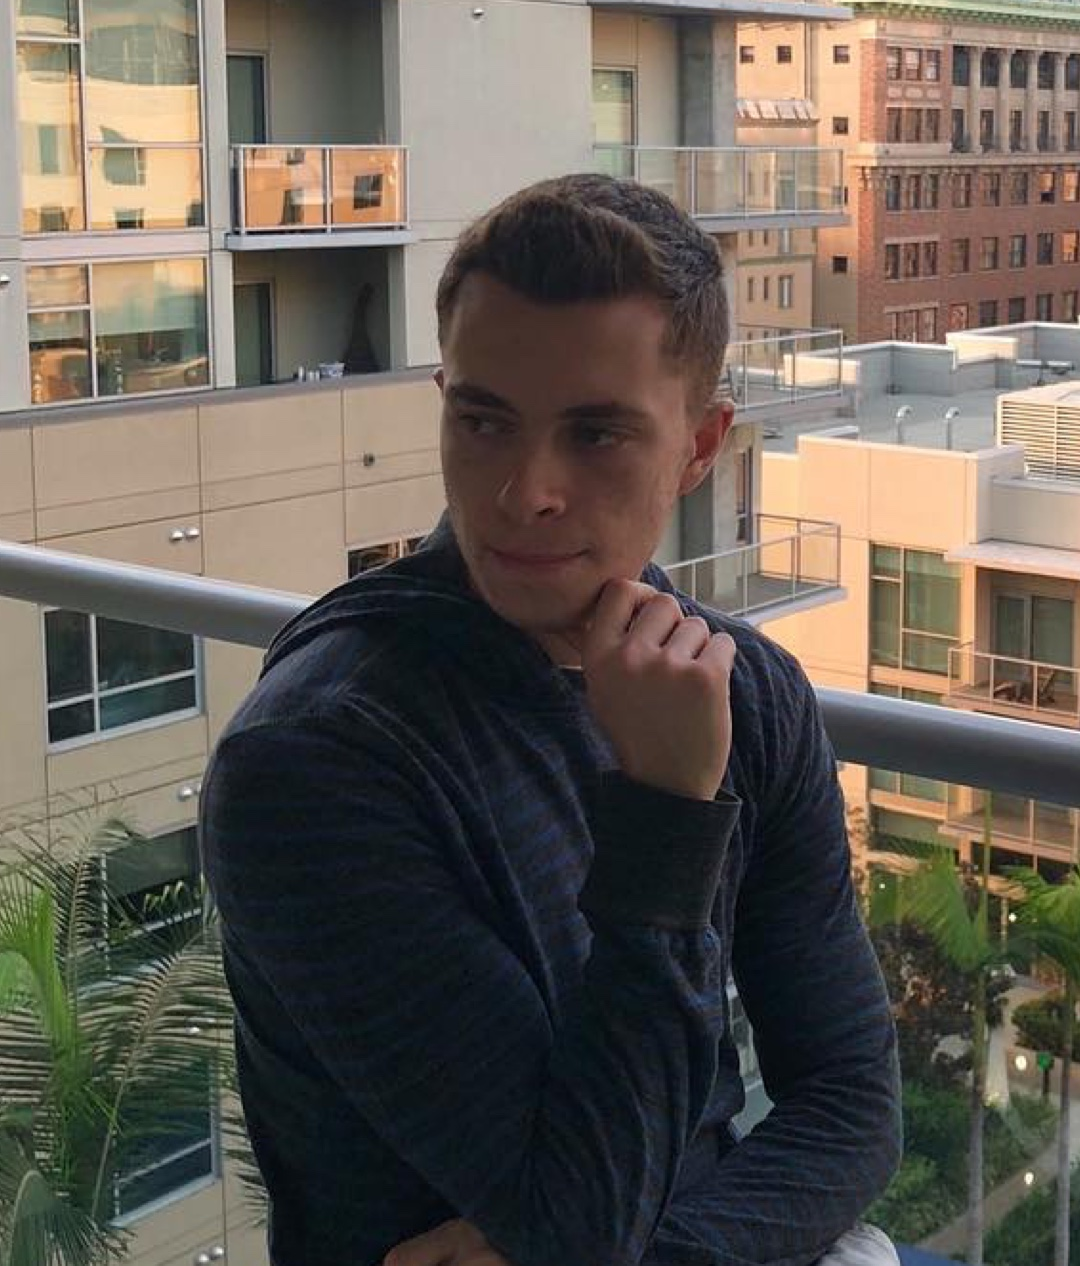
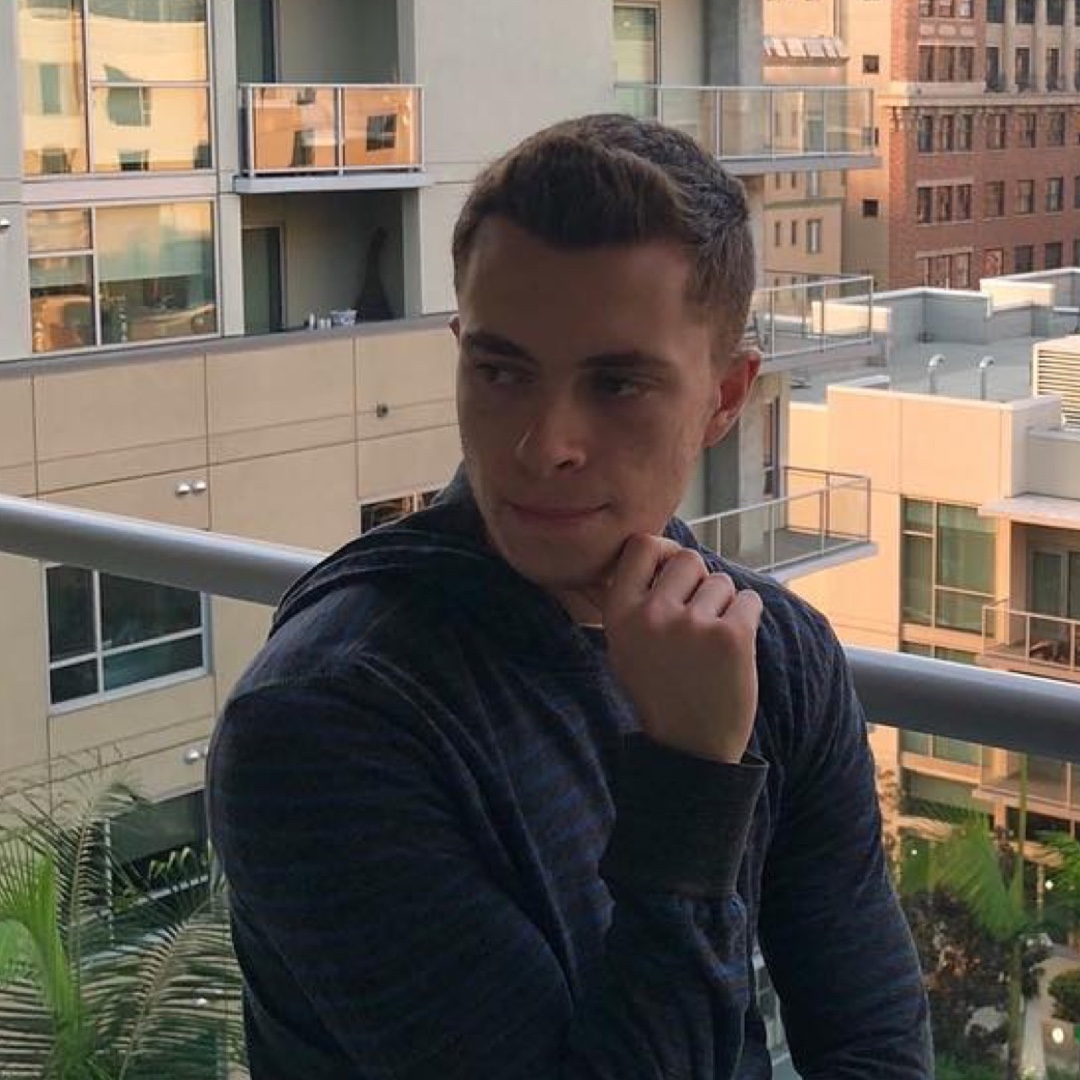
update about page style and team pictures

diff --git a/public/css/site.css b/public/css/site.css
@@ -164,15 +164,10 @@ p {
 }
 
 /* Special Items */
-.profile-pic {
-  width: 200px;
-  height: 200px;
-  overflow: hidden;
-  border-radius: 15px;
-}
 .profile-pic img {
-  width: 200px;
-  height: auto;
+  width: 100%;
+  height: 100%;
+  border-radius: 15px;
 }
 
 /* Content */
